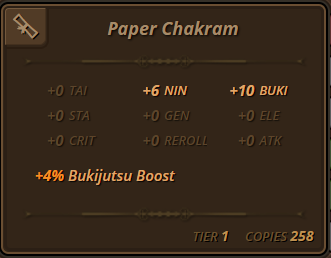
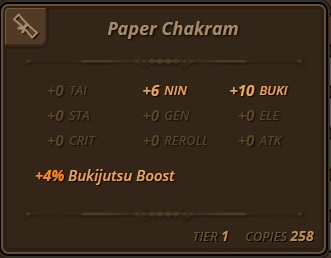
d
change from png to jpg

diff --git a/oblig/Equipment.js b/oblig/Equipment.js
@@ -8,7 +8,7 @@ const Equipments = {
         "shadow-thunder-blast":{
             Nin: 10,
             Attack : 5,
-            file:'oblig\Shadowthunder.png'
+            file:'https://github.com/devapath89/NM/blob/main/oblig/Shadowthunder.png?raw=true'
         },
         "limbo":{
             Tai:10,
@@ -19,7 +19,7 @@ const Equipments = {
         "divine-genesis":{
             Nin: 30,
             Gen: 30,
-            file:'https://github.com/devapath89/NM/blob/main/oblig/Img/divinegenesis.jpg?raw=true'
+            // file:'https://github.com/devapath89/NM/blob/main/oblig/Img/divinegenesis.jpg?raw=true'
         },
             "hair-camouflage":{
                  Nin: 11,
@@ -48,11 +48,11 @@ const Equipments = {
                  Buki:8,
                 file2:'https://github.com/devapath89/NM/blob/main/oblig/Img/Papershurikent.png?raw=true'
             },
-            // "paper-chakram":{
-            //     Nin:6,
-            //     Buki:10,
-            //     BukijutsuBoost:4,
-            //     file:'Img\paperChakram.jpg'
+             "paper-chakram":{
+               Nin:6,
+                Buki:10,
+                 BukijutsuBoost:4,
+                 file:'Img\paperChakram.jpg'
             },
             "paper-clone":{
                 Nin:16,
@@ -68,5 +68,6 @@ const Equipments = {
                 Reroll:10,
                 file:''
             }
-        }              
-    }
+        }  
+    }            
+   
